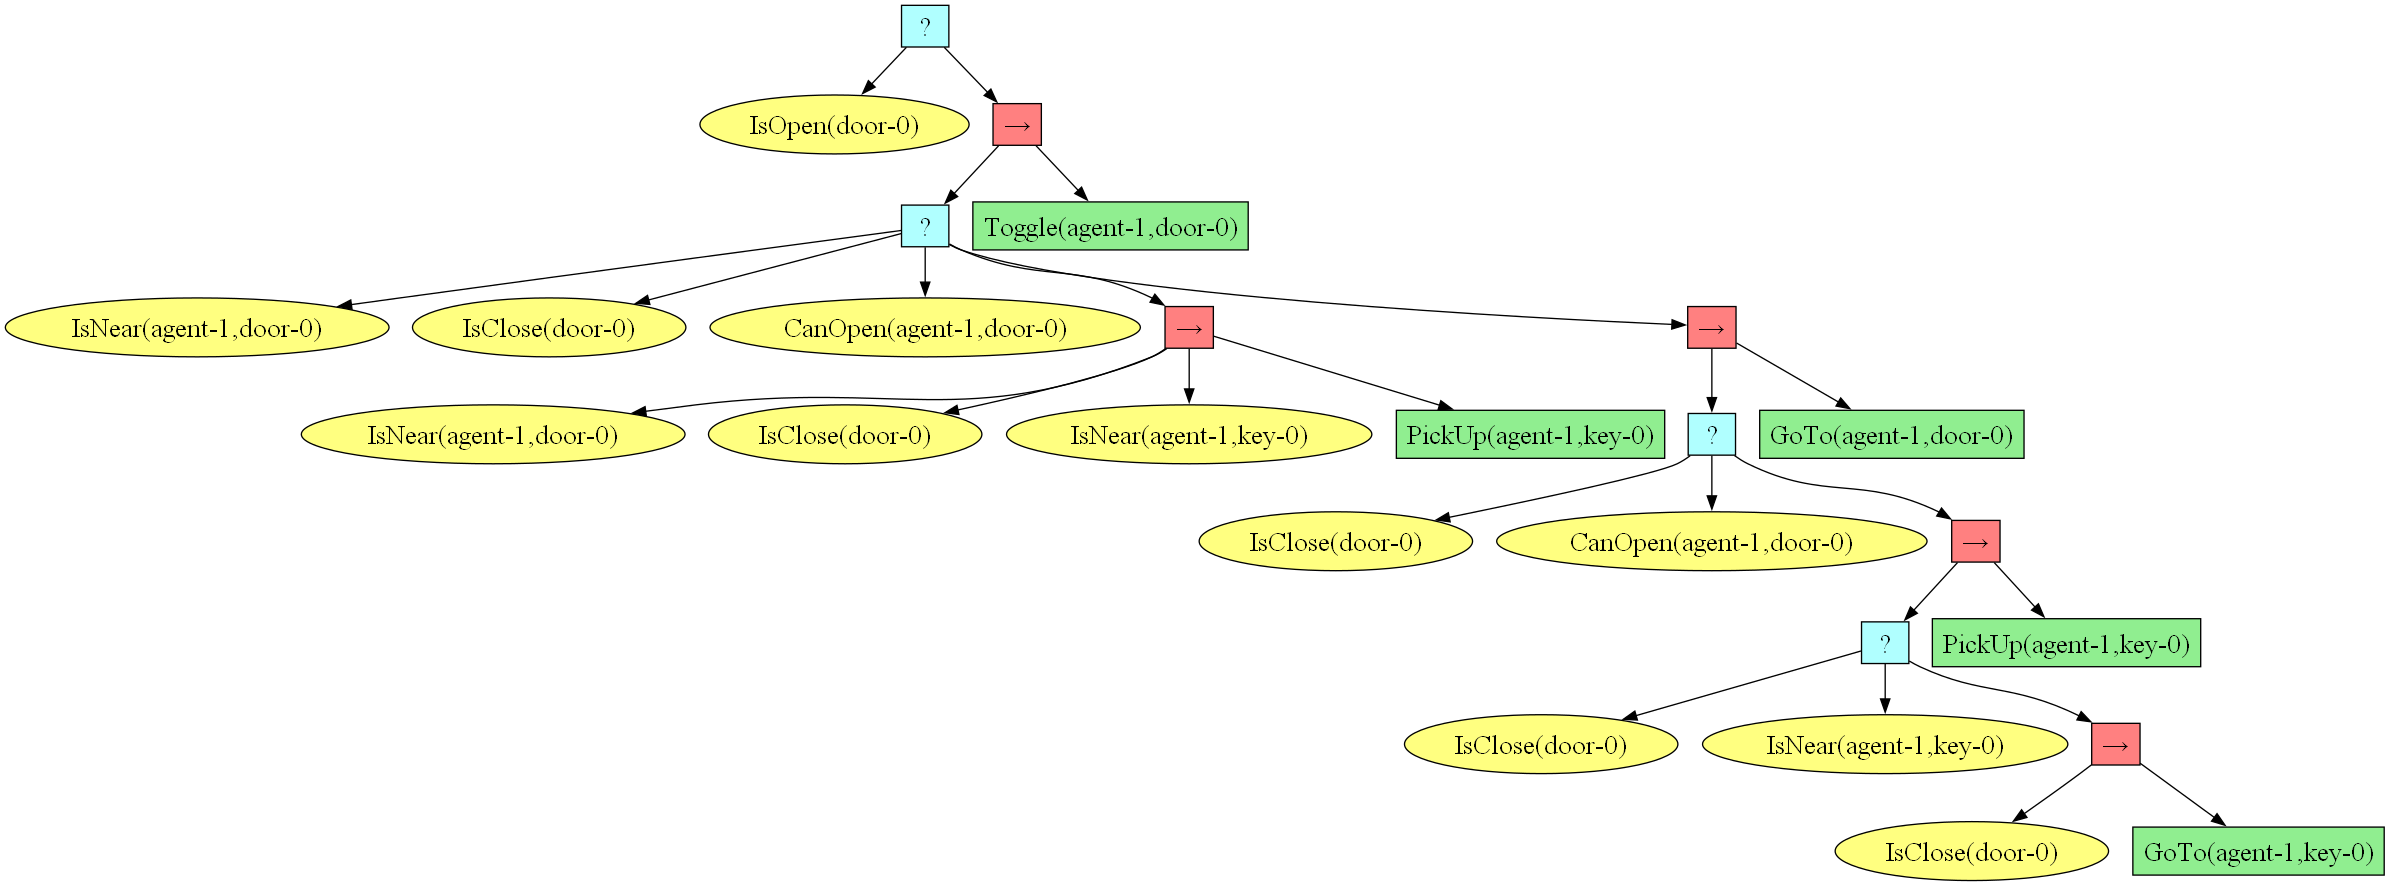
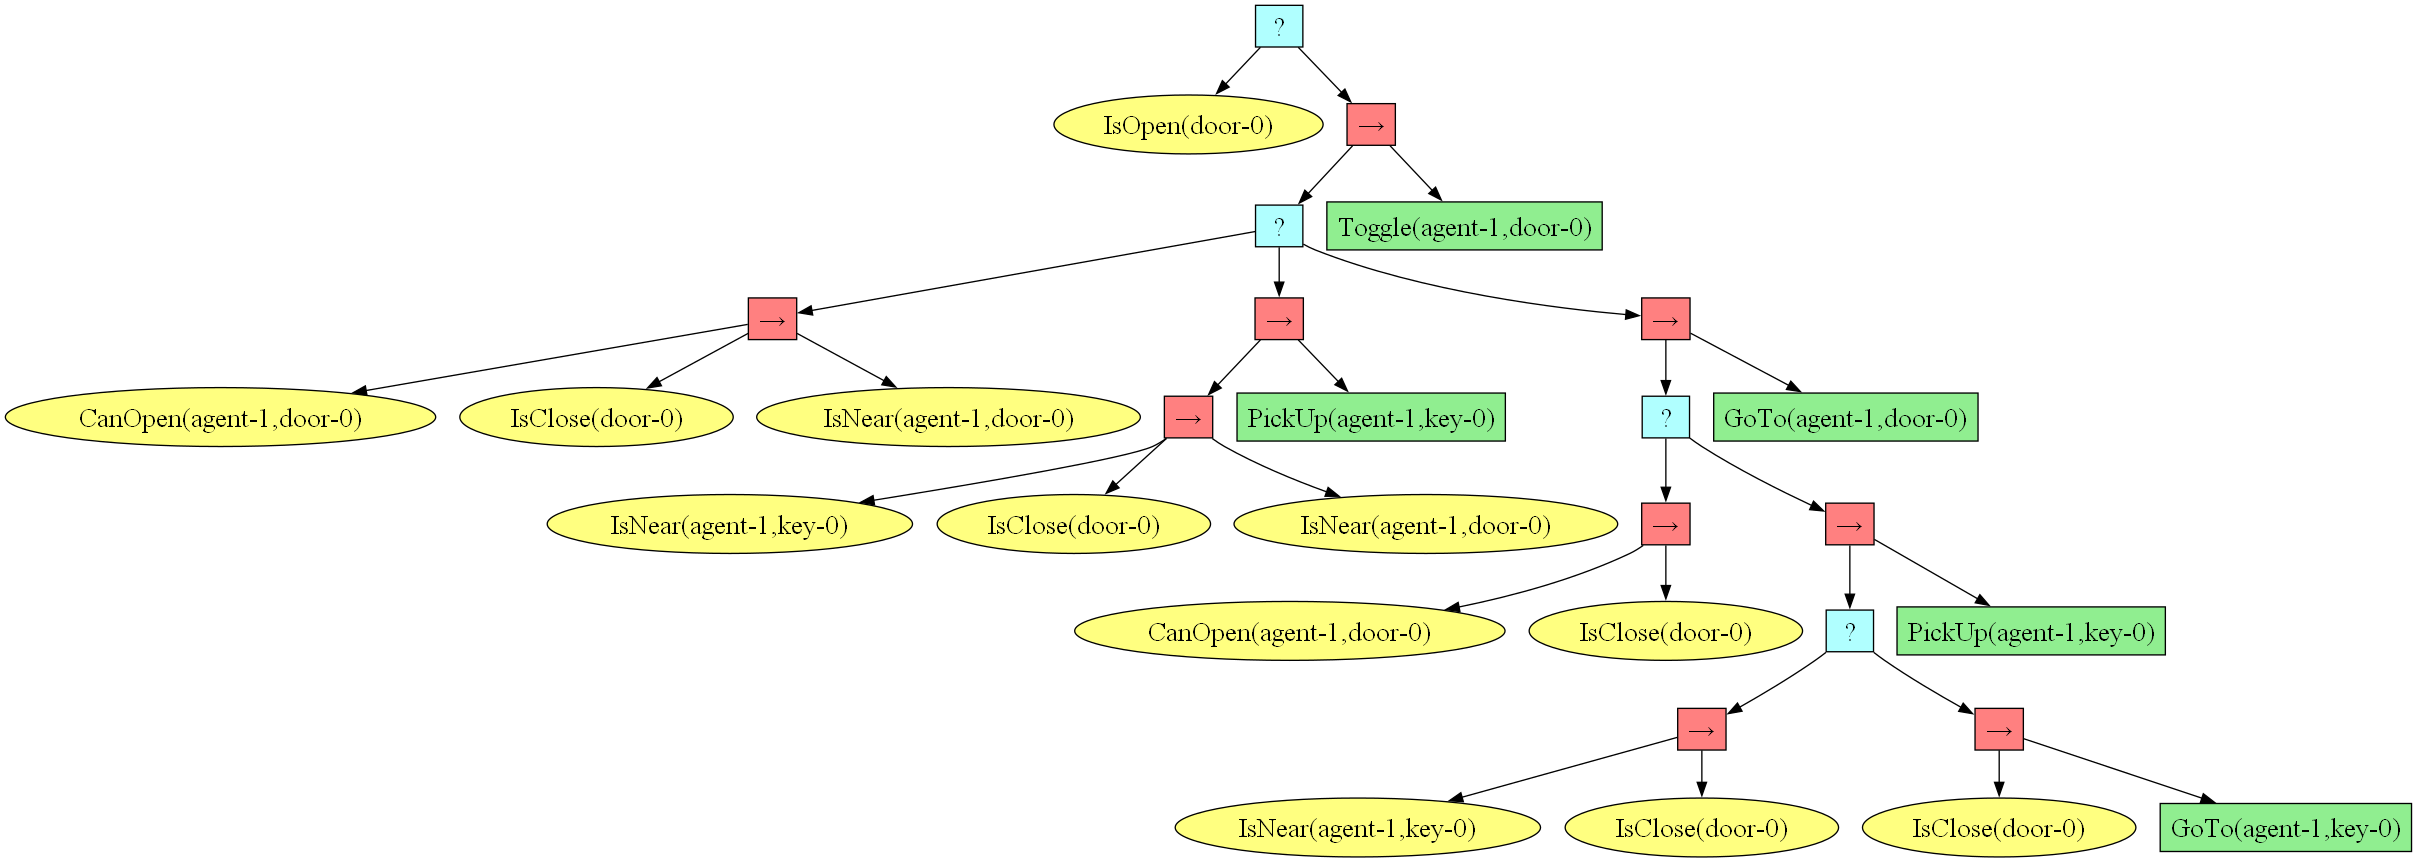
update

diff --git a/mabtpg/mabtp/mabtp.py b/mabtpg/mabtp/mabtp.py
@@ -105,9 +105,19 @@ class PlanningAgent:
 
 
     def add_conditions(self,planning_condition,parent):
-        for condition_node_name in planning_condition.condition_set:
-            cls_name, args = parse_predicate_logic(condition_node_name)
+        condition_set = planning_condition.condition_set
+        if len(condition_set) == 0: return
+
+        if len(condition_set) == 1:
+            cls_name, args = parse_predicate_logic(list(condition_set)[0])
             parent.add_child(AnyTreeNode(NODE_TYPE.condition,cls_name,args))
+        else:
+            sequence_node = AnyTreeNode(NODE_TYPE.sequence)
+            for condition_node_name in condition_set:
+                cls_name, args = parse_predicate_logic(condition_node_name)
+                sequence_node.add_child(AnyTreeNode(NODE_TYPE.condition,cls_name,args))
+
+            parent.add_child(sequence_node)
 
 class MABTP:
     def __init__(self):

diff --git a/mabtpg/envs/gridenv/minigrid/magrid_env.py b/mabtpg/envs/gridenv/minigrid/magrid_env.py
@@ -11,7 +11,7 @@ from typing import Any, SupportsFloat
 
 from gymnasium.core import ActType, ObsType
 
-from mabtpg.envs.gridenv.base.agent import Agent
+from mabtpg.envs.gridenv.minigrid.agent import Agent
 
 
 class MAGridEnv(MiniGridEnv):
@@ -55,7 +55,7 @@ class MAGridEnv(MiniGridEnv):
 
 
 
-    def set_focus_agent(self, agent):
+    def set_focus_agent(self, agent:Agent):
         self.agent_pos = agent.position
         self.agent_dir = agent.direction
         self.carrying = agent.carrying

diff --git a/test_gridworld/mabt_pickup_test.py b/test_gridworld/mabt_pickup_test.py
@@ -79,7 +79,7 @@ bt_list = planning_algorithm.output_bt_list([agent.behavior_lib for agent in env
 for i in range(env.num_agent):
     print("\n" + "-" * 10 + f" Planned BT for agent {i} " + "-" * 10)
     bt_list[i].print()
-    # bt_list[i].draw(file_name=f"agent-{i}")
+    bt_list[i].draw(file_name=f"agent-{i}")
 
 # bind the behavior tree to agents
 for i,agent in enumerate(env.agents):

diff --git a/mabtpg/envs/gridenv/minigrid/behavior_lib/Action/GoTo.py b/mabtpg/envs/gridenv/minigrid/behavior_lib/Action/GoTo.py
@@ -101,7 +101,7 @@ def heuristic(a, b):
     return abs(a[0] - b[0]) + abs(a[1] - b[1])
 
 def astar(grid, start, goal):
-    rows, cols = grid.window_width, grid.window_height
+    rows, cols = grid.width, grid.height
     pq = []
     heapq.heappush(pq, (0 + heuristic(start, goal), 0, start, []))
     visited = set()

diff --git a/mabtpg/envs/gridenv/minigrid/agent.py b/mabtpg/envs/gridenv/minigrid/agent.py
@@ -10,8 +10,8 @@ class Agent(object):
         self.action = Actions.done
         self.bt_success = None
 
-        self.pos = (-1, -1)
-        self.dir = -1
+        self.position = (-1, -1)
+        self.direction = -1
         self.carrying = None
 
         self.last_tick_output = None
